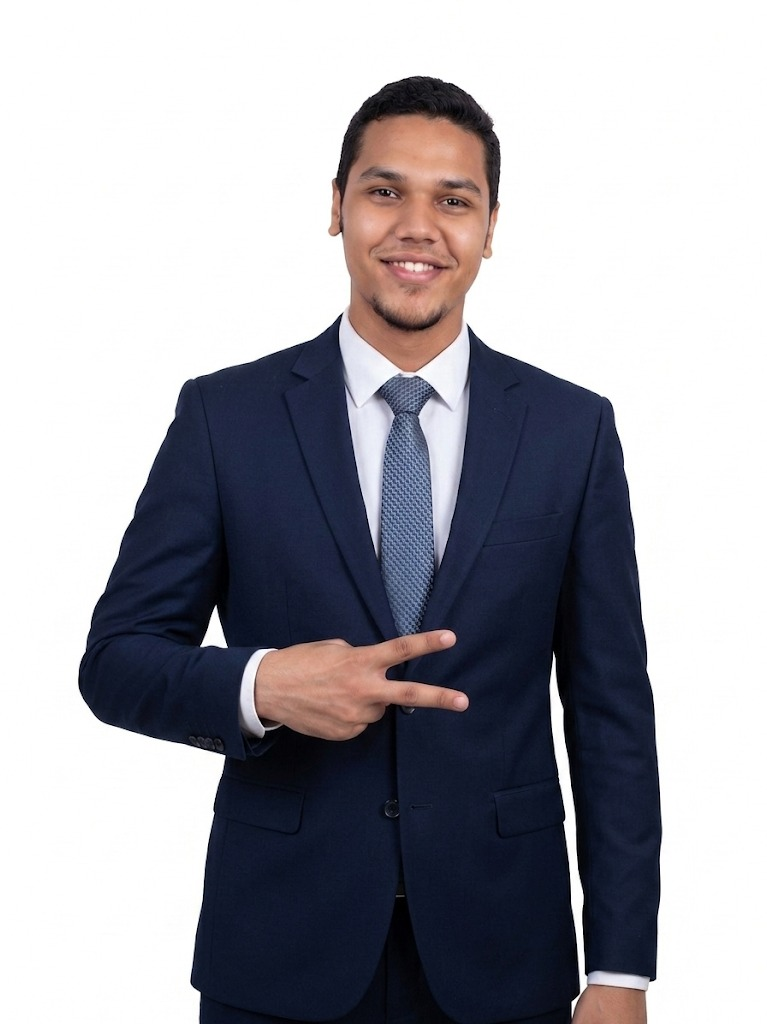
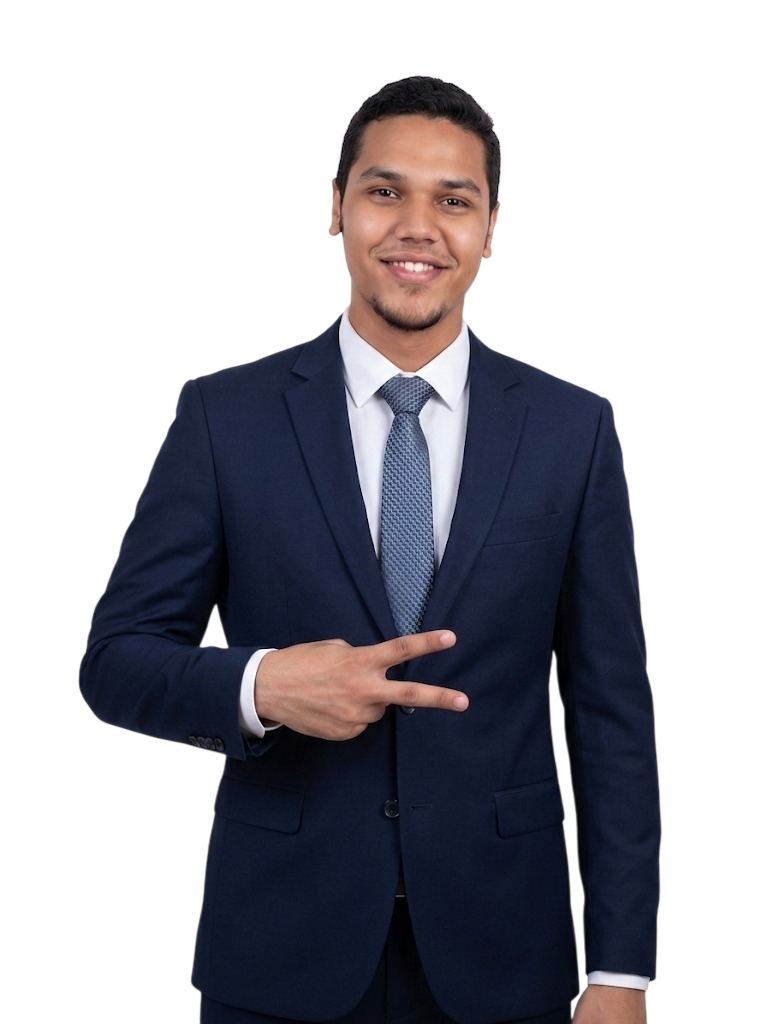
fix(hero): make profile image free-floating with organic drop-shadow glow

diff --git a/src/components/Hero.tsx b/src/components/Hero.tsx
@@ -175,46 +175,37 @@ function ProfilePortrait() {
   }
 
   return (
-    <div
-      className="group/portrait relative mx-auto aspect-[4/5] w-full max-w-md"
+    <motion.div
+      animate={{ opacity: 1, x: 0 }}
+      className="group/portrait relative mx-auto w-full max-w-md flex justify-center lg:justify-start"
+      initial={{ opacity: 0, x: -50 }}
       onMouseLeave={handleMouseLeave}
       onMouseMove={handleMouseMove}
+      transition={{ duration: 0.8, ease: "easeOut" }}
     >
       <motion.div
         aria-hidden="true"
         className="pointer-events-none absolute -inset-8 rounded-[2.6rem] bg-gradient-to-br from-emerald-500/25 via-cyan-400/15 to-indigo-500/25 opacity-0 blur-2xl transition-opacity duration-500 group-hover/portrait:opacity-100"
         style={{ x: auraX, y: auraY }}
       />
-      <motion.div
-        className="relative h-full w-full [perspective:1000px]"
-        initial={{ opacity: 0, scale: 0.96 }}
-        transition={{ duration: 0.9, ease: "easeOut", delay: 0.15 }}
-        whileInView={{ opacity: 1, scale: 1 }}
-        viewport={{ once: true, amount: 0.3 }}
-      >
+      <div className="relative w-full [perspective:1000px] flex justify-center lg:justify-start">
         <motion.div
-          className="relative h-full w-full [transform-style:preserve-3d]"
+          className="relative [transform-style:preserve-3d]"
           style={{ rotateX, rotateY }}
         >
-          <Image
-            alt="Mohamed Ayman software engineer profile portrait"
-            className="rounded-[2rem] object-cover object-center"
-            fill
-            priority
-            sizes="(min-width: 1024px) 36rem, (min-width: 640px) 80vw, 90vw"
-            src={profileImageSrc}
-          />
-          <div
-            aria-hidden="true"
-            className="pointer-events-none absolute inset-0 rounded-[2rem] ring-1 ring-inset ring-white/10"
-          />
-          <div
-            aria-hidden="true"
-            className="pointer-events-none absolute inset-x-0 bottom-0 h-32 rounded-b-[2rem] bg-gradient-to-t from-[#0B0F19]/60 to-transparent"
-          />
+          <div className="relative w-64 h-80 sm:w-72 sm:h-96 mx-auto sm:mx-0 flex items-end">
+            <Image
+              alt="Mohamed Ayman software engineer profile portrait"
+              className="object-contain object-bottom drop-shadow-[0_0_20px_rgba(16,185,129,0.4)] animate-[pulse_4s_ease-in-out_infinite] w-full h-full"
+              fill
+              priority
+              sizes="(min-width: 1024px) 36rem, (min-width: 640px) 80vw, 90vw"
+              src={profileImageSrc}
+            />
+          </div>
         </motion.div>
-      </motion.div>
-    </div>
+      </div>
+    </motion.div>
   );
 }
 
@@ -228,7 +219,12 @@ export function Hero() {
         variants={containerVariants}
       >
         {/* LEFT COLUMN — floating minimalist typography */}
-        <div className="relative z-10 flex flex-col items-center sm:items-start">
+        <motion.div
+          animate={{ opacity: 1, x: 0 }}
+          className="relative z-10 flex flex-col items-center sm:items-start"
+          initial={{ opacity: 0, x: 30 }}
+          transition={{ duration: 0.8, delay: 0.4, ease: "easeOut" }}
+        >
           <motion.div
             className="inline-flex w-fit items-center gap-2.5 rounded-full border border-white/[0.08] bg-white/[0.03] px-4 py-2 text-center text-sm font-medium text-slate-300 backdrop-blur-md sm:text-left"
             variants={itemVariants}
@@ -270,7 +266,7 @@ export function Hero() {
             <motion.div whileHover={{ y: -3, scale: 1.015 }} whileTap={{ scale: 0.985 }}>
               <Button
                 asChild
-                className="h-13 rounded-full bg-white px-7 text-slate-950 shadow-[0_10px_40px_rgba(255,255,255,0.18)] hover:bg-emerald-300 hover:shadow-[0_10px_40px_rgba(16,185,129,0.3)]"
+                className="h-13 rounded-full bg-white px-7 text-slate-950 shadow-[0_10px_40px_rgba(255,255,255,0.18)] shadow-[0_0_15px_theme(colors.emerald.500/60)] animate-[pulse_2s_ease-in-out_infinite] hover:bg-emerald-300 hover:shadow-[0_10px_40px_rgba(16,185,129,0.3)]"
                 size="lg"
                 aria-label="Download Mohamed Ayman CV"
               >
@@ -358,7 +354,7 @@ export function Hero() {
               );
             })}
           </motion.nav>
-        </div>
+        </motion.div>
 
         {/* RIGHT COLUMN — free-floating clean portrait */}
         <motion.aside

diff --git a/src/app/page.tsx b/src/app/page.tsx
@@ -175,7 +175,7 @@ function Navigation() {
           </div>
           <a
             href="#contact"
-            className="hidden items-center gap-1.5 rounded-full bg-white px-4 py-2 text-sm font-semibold text-slate-950 transition-all duration-300 hover:bg-emerald-300 hover:shadow-[0_0_28px_rgba(16,185,129,0.4)] sm:inline-flex"
+            className="hidden items-center gap-1.5 rounded-full bg-white px-4 py-2 text-sm font-semibold text-slate-950 shadow-[0_0_15px_theme(colors.emerald.500/60)] animate-[pulse_2s_ease-in-out_infinite] transition-all duration-300 hover:bg-emerald-300 hover:shadow-[0_0_28px_rgba(16,185,129,0.4)] sm:inline-flex"
           >
             Let&apos;s talk
             <ArrowUpRight className="h-3.5 w-3.5" aria-hidden="true" />
@@ -211,7 +211,7 @@ function Navigation() {
           <a
             href="#contact"
             onClick={() => setMenuOpen(false)}
-            className="mt-1 block rounded-xl bg-white px-4 py-3 text-center text-sm font-semibold text-slate-950"
+            className="mt-1 block rounded-xl bg-white px-4 py-3 text-center text-sm font-semibold text-slate-950 shadow-[0_0_15px_theme(colors.emerald.500/60)] animate-[pulse_2s_ease-in-out_infinite]"
           >
             Let&apos;s talk
           </a>
